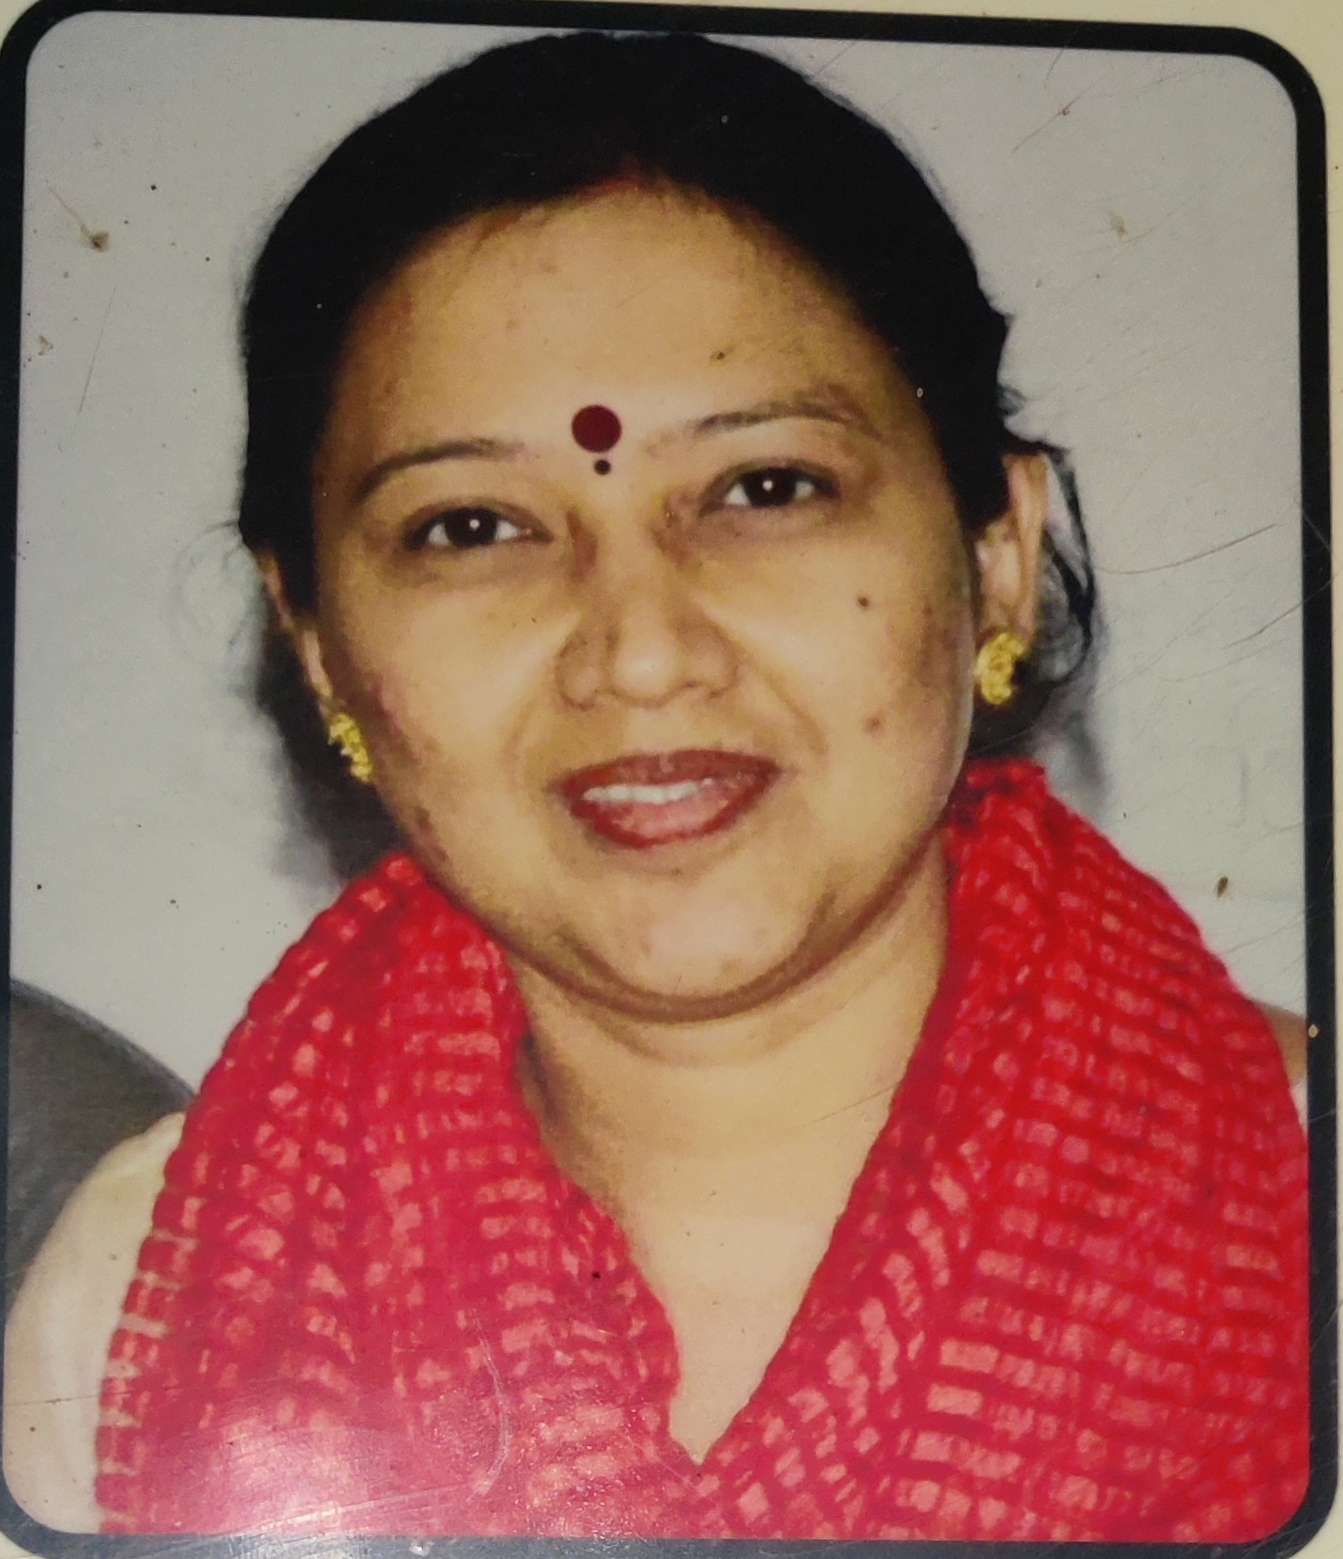
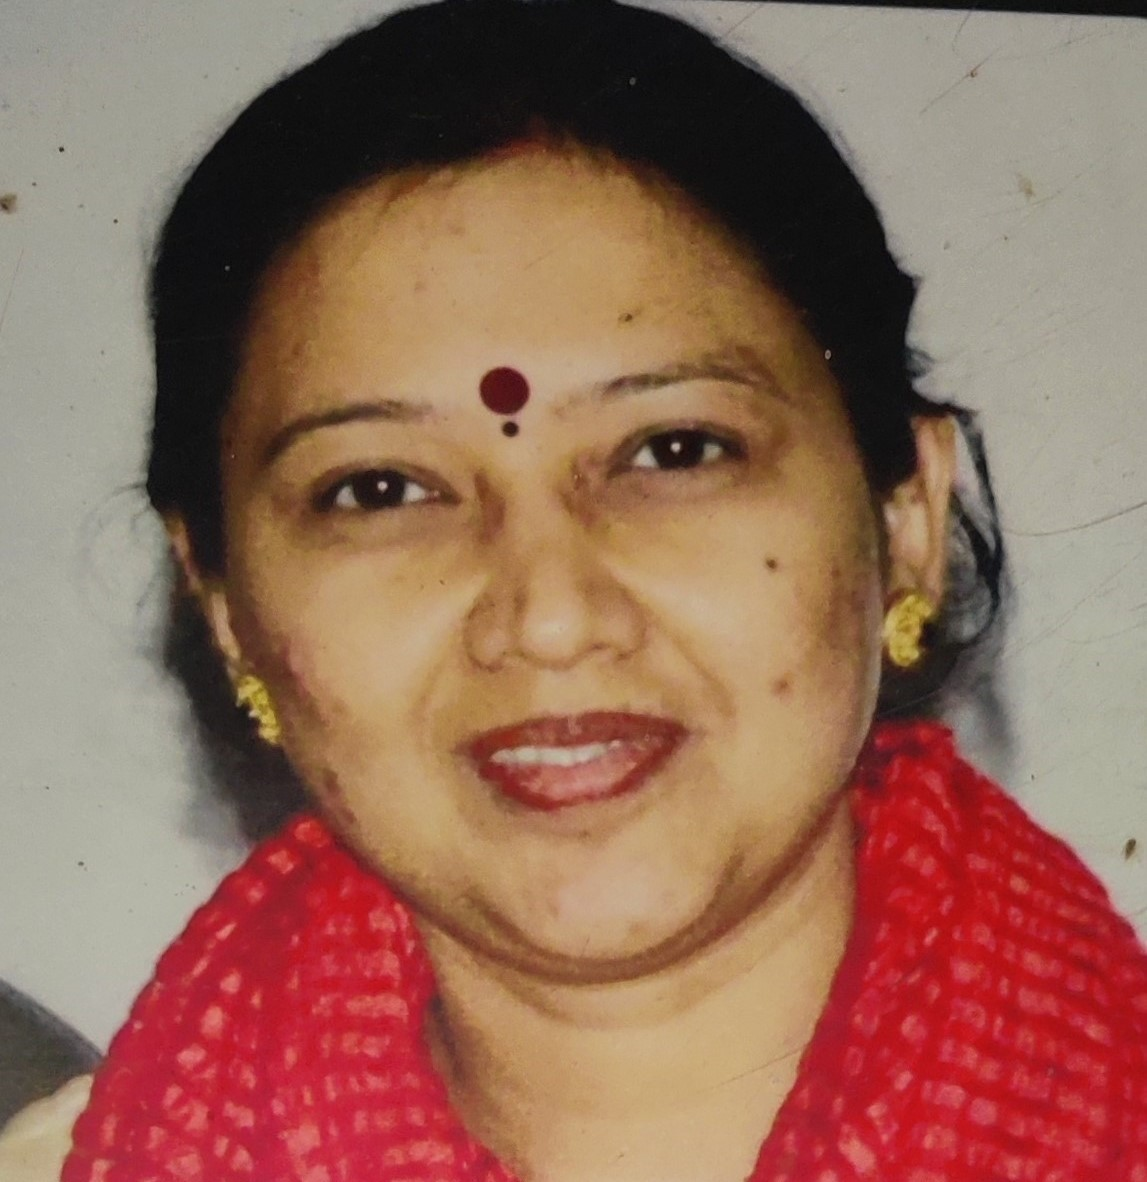
edit doctor section

diff --git a/index.html b/index.html
@@ -59,7 +59,7 @@
 								<div class="header-top-left text-center text-md-left">
 									<ul>
 										<li><a href="#"><i class="lni lni-phone"></i>+91 9897088805</a></li>
-										<li><a href="#"><i class="lni lni-envelope"></i>drpreetimanu@gmail.com</a></li>
+										<li><a href="mailto:drpreetimanu@gmail.com"><i class="lni lni-envelope"></i>drpreetimanu@gmail.com</a></li>
 									</ul>
 								</div>
 							</div>
@@ -370,7 +370,7 @@
 							<h4>Orthodontic Treatment</h4>
 							<p>Teeth straightening treatments are performed at our clinic using invisible 
 								braces too, among other alternative methods.</p>
-							<a href="#" class="read-more">Read More <i class="lni lni-arrow-right"></i></a>
+						
 						</div>
 						<div class="service-overlay img-bg"></div>
 					</div>
@@ -400,7 +400,7 @@
 							<h4>Replacement of Teeth</h4>
 							<p>We offer different procedures for replacing missing teeth e.g. dental implants, 
 								fixed caps or bridges and removable dentures.</p>
-							<a href="#" class="read-more">Read More <i class="lni lni-arrow-right"></i></a>
+					
 						</div>
 						<div class="service-overlay img-bg"></div>
 					</div>
@@ -425,7 +425,7 @@
 							<h4>Cavity Filling</h4>
 							<p>At our clinic, we use silver, ceramic and cosmetic fillings, depending on circumstance 
 								of the patient, in order to fill cavities.</p>
-							<a href="#" class="read-more">Read More <i class="lni lni-arrow-right"></i></a>
+						
 						</div>
 						<div class="service-overlay img-bg"></div>
 					</div>
@@ -449,7 +449,7 @@
 							<h4>Teeth Whitening / Bleaching</h4>
 							<p>Teeth cleaning, along with whitening and bleaching is done with utmost care, 
 								for a smile that looks not just beautiful, but also healthy.</p>
-							<a href="#" class="read-more">Read More <i class="lni lni-arrow-right"></i></a>
+					
 						</div>
 						<div class="service-overlay img-bg"></div>
 					</div>
@@ -476,7 +476,7 @@
 								Single Sitting Root Canal Treatment</h4>
 							<p>Our Single Sitting Root Canal Treatment is designed to efficiently address dental 
 								issues while minimizing the number of appointments needed.</p>
-							<a href="#" class="read-more">Read More <i class="lni lni-arrow-right"></i></a>
+						
 						</div>
 						<div class="service-overlay img-bg"></div>
 					</div>
@@ -500,7 +500,7 @@
 							<h4>Full Mouth Dental Procedures </h4>
 							<p>Our Full Mouth Dental Procedures are designed to address a range of dental issues and transform your oral health, 
 								ensuring both functionality and aesthetics.</p>
-							<a href="#" class="read-more">Read More <i class="lni lni-arrow-right"></i></a>
+						
 						</div>
 						<div class="service-overlay img-bg"></div>
 					</div>
@@ -729,41 +729,49 @@
 					<div class="section-title text-center mb-55">
 						<span class="wow fadeInDown" data-wow-delay=".2s">Doctors</span>
 						<h2 class="mb-15 wow fadeInUp" data-wow-delay=".4s">Our Doctors</h2>
-						<p class="wow fadeInUp" data-wow-delay=".4s">Dr. Hirak Bhattacharya and Dr. Preeti Bhattacharya hve established dental practice in 2003 after completing their graduation and post graduation from renound king George's medical college.
+						<p class="wow fadeInUp" data-wow-delay=".4s">Dr. Hirak Bhattacharya and Dr. Preeti Bhattacharya have established dental practice in 2003 after completing their graduation and post graduation from renound king George's medical college.
 							 
 							<br class="d-none d-lg-block">  They have experience of almost 20 years.</p>
 					</div>
 				</div>
 			</div>
+
+
+
+			
 			<div class="row">
 				<div class="col-xl-6 col-lg-6 col-md-6">
 					<div class="single-blog mb-30 wow fadeInUp" data-wow-delay=".2s">
 						<div class="blog-img">
-							<a href="#"><img src="assets/img/team/Dr Hirak.jpg" alt="" width="100"></a>
+							<a href="#"><img src="assets/img/team/Dr.Hirak.jpg" alt="" width="100"></a>
 						</div>
 						<div class="blog-content">
-							<h3><a href="#">Dr. Hirak Bhattacharya
-									</a></h3>
+							<h2><a href="#">Dr. Hirak Bhattacharya
+									</a></h2>
 									<br>
-							<h6>Dr. Hirak Bhattacharya has done his post graduation in periodontology <br>and implantology which makes him do all the surgical procedures of<br> gums and teeth  and dental implants on a day to day basis.</h6>
+							<h5>Dr. Hirak Bhattacharya has done his post graduation in periodontology and implantology which makes him do all the surgical procedures of gums and teeth  and dental implants on a day to day basis.</h5>
 							<br>
 						</div>
 					</div>
 				</div>
-				<!-- <div class="col-xl-4 col-lg-4 col-md-6">
+
+
+
+
+				<div class="col-xl-6 col-lg-6 col-md-6">
 					<div class="single-blog mb-30 wow fadeInUp" data-wow-delay=".4s">
 						<div class="blog-img">
-							<a href="#"><img src="assets/img/blog/blog-2.png" alt=""></a>
+							<a href="#"><img src="assets/img/team/Dr.Preeti.jpg" alt=""></a>
 						</div>
 						<div class="blog-content">
-							<h4><a href="#">100+ Medical Tips We Just Had to Share</a></h4>
-							<p>Lorem ipsum dolor sirtewt amertse consetetur sadipscing elitr, sedqw dinoumy eirmod tempor invidunt
-								sedrsu.</p>
-							<a class="read-more" href="#">Read More <i class="lni lni-arrow-right"></i></a>
+							<h2><a href="#">Dr. Preeti Bhattacharya</a></h2>
+							<br>
+							<h5>Dr.Preeti Bhattacharya has her masters in orthodontics  and specializes in treatment of poorly aligned teeth using braces and aligners.</h5>
+						    <br>
 						</div>
 					</div>
-				</div> -->
-				<div class="col-xl-6 col-lg-6 col-md-6">
+				</div>
+				<!-- <div class="col-xl-6 col-lg-6 col-md-6">
 					<div class="single-blog mb-30 wow fadeInUp" data-wow-delay=".6s">
 						<div class="blog-img">
 							<a href="#"><img src="/assets/img/team/Dr.preeti.jpg" alt="" width="500"></a>
@@ -775,7 +783,7 @@
 						    <br>
 						</div>
 					</div>
-				</div>
+				</div> -->
 			</div>
 		</div>
 	</section>
@@ -819,7 +827,7 @@
 
 						</div>
 					</div>
-					<div class="col-xl-2 col-lg-3 col-md-6">
+					<!-- <div class="col-xl-2 col-lg-3 col-md-6">
 						<div class="footer-widget mb-30">
 							<h4>Quick Link</h4>
 							<ul class="footer-links">
@@ -831,17 +839,18 @@
 								<li><a href="#">Contact</a></li>
 							</ul>
 						</div>
-					</div>
-					<div class="col-xl-2 col-lg-3 col-md-5">
+					</div> -->
+					<div class="col-xl-4 col-lg-3 col-md-5">
 						<div class="footer-widget mb-30">
 							<h4>For Appointment</h4>
 							<ul class="footer-links">
 								<li><a href="#"><i class="lni lni-phone"></i> +91 9897088805</a></li>
 								<li><a href="#"><i class="lni lni-phone"></i> +91 9412451510</a></li>
 								<li><a href="#"><i class="lni lni-phone"></i> +91 9897678001</a></li>
-								<li><a href="#"><i class="lni lni-envelope"></i></a></li>
-								<li><a href="#"> drpreetimanu@gmail.com</a></li>
-								<li><a href="#"> drhirakbhattacharya04@gmail.com</a></li>
+								<li><a href="mailto:drpreetimanu@gmail.com"><i class="lni lni-envelope"></i> drpreetimanu@gmail.com</a></li>
+								<li><a href="mailto:drhirakbhattacharya04@gmail.com"><i class="lni lni-envelope"></i> drhirakbhattacharya04@gmail.com</a></li>
+		
+							
 
 							</ul>
 						</div>

diff --git a/assets/css/main.css b/assets/css/main.css
@@ -2199,8 +2199,7 @@ p {
 }
 
 .blog-section .single-blog .blog-img a img {
-   width: 70%; 
-   margin:auto;
+   width: 100%; 
   -webkit-transition: all 0.3s ease-out 0s; 
    transition: all 0.3s ease-out 0s;
 }
